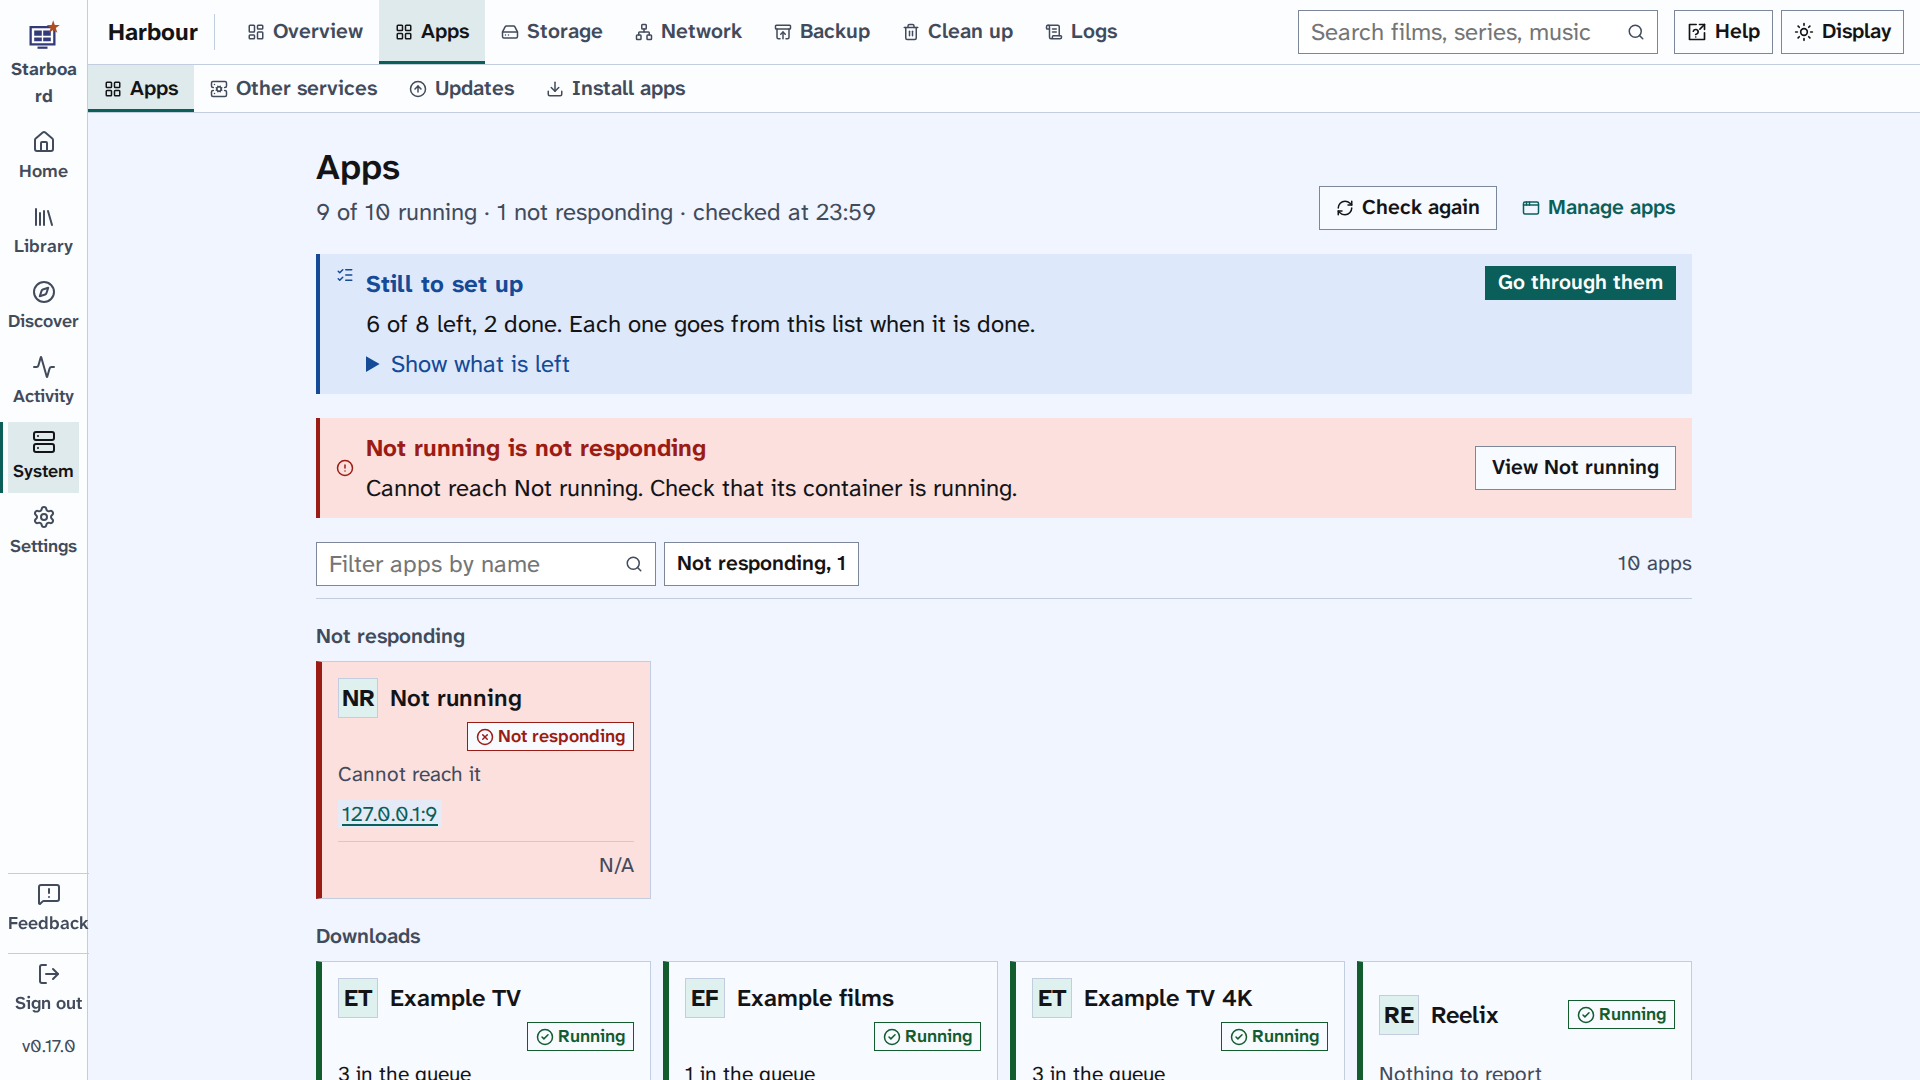
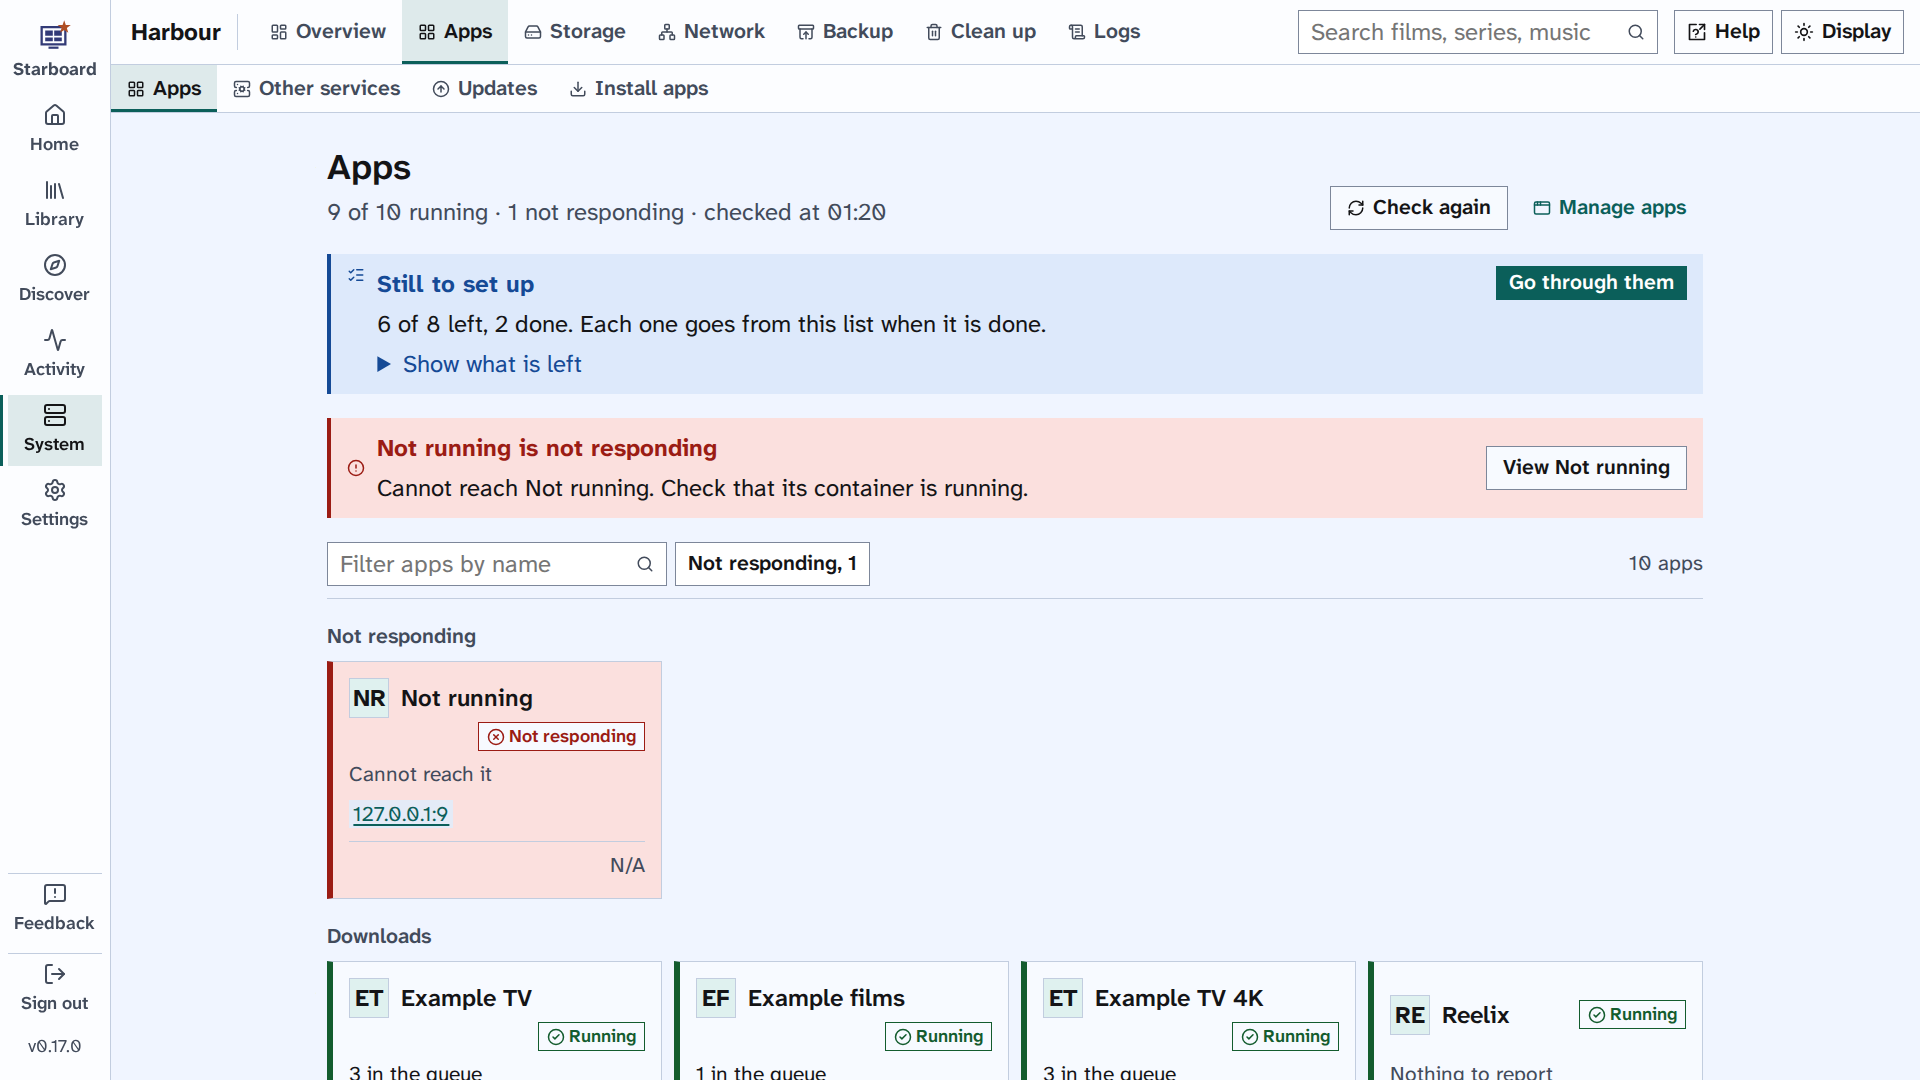
Accessibility help: the four DASH-437 issues are fixed
Taken out of Limits and known gaps, Text size and spacing, and Reduce motion, which
now says what Off does; How Starboard is tested describes the layout check and the
Reduce motion task. New pictures at 175% text, 150% on a large screen and with wider
spacing, with their descriptions.

diff --git a/docs/help/accessibility/how-starboard-is-tested.md b/docs/help/accessibility/how-starboard-is-tested.md
@@ -26,7 +26,7 @@ server with made-up data, so nothing real is read.
 
 | Part | What it checks | How it runs |
 |---|---|---|
-| The scan | Every page against WCAG 2.2 AA with axe-core, in Light, Dark and High contrast; page structure; target size; reflow at 320 pixels wide and at 175% text; Windows' contrast themes; reduced motion | `tools/a11y.sh` |
+| The scan | Every page against WCAG 2.2 AA with axe-core, in Light, Dark and High contrast; page structure; target size; reflow at 320 pixels wide and at 175% text; Windows' contrast themes; reduced motion; the side menu and header at every text size | `tools/a11y.sh` and `LAYOUT=1 tools/a11y.sh` |
 | Reading order | What a screen reader reads against what is seen, on every page, at computer and phone widths, and in each design of the Apps page | `ORDER=1 tools/a11y.sh` |
 | Keyboard walk | The main tasks with keys only, checking where focus is and what is said after every step | `TASKS=1 tools/a11y.sh` |
 | Colour contrast | Every text and control colour pair in every theme and colour palette | The design system's `tools/contrast.py` |
@@ -46,6 +46,11 @@ server with made-up data, so nothing real is read.
   **Display** after Escape.
 - **Windows' contrast themes:** the focus outline stays visible in forced colours.
 - **Reduced motion:** with reduced motion asked for, nothing on the Apps page moves for longer than 50 milliseconds.
+- **Menus at large text:** the side menu and the header on eight pages, at 100%, 125%, 150% and 175% text, with and
+  without wider spacing, in Light, Dark and High contrast, at 1280 and 1366 pixels wide and at phone width, and in
+  windows 600 and 700 pixels tall. It fails if a word breaks in the middle, a name runs past an edge, items overlap,
+  a menu item or the search box is cut off, or the page scrolls sideways. The scan's own reflow rule cannot see a
+  menu that cuts off its own items, so this part looks for exactly that.
 
 ### Reading order
 
@@ -59,8 +64,9 @@ level 1 heading is the first thing in the main content.
 The main tasks are done with keys alone, as a screen reader user would. After each step, the check records where
 focus is, and what was said. The tasks include: sign in, skip to the main content, search, open a film, change a
 setting, change an accessibility option in Settings, edit an app in a slide-out, make and revoke a key, show more of
-a list, delete a file, select several items, the Live TV channel lists, release notes, copies of backups, and a
-plug-in's notices, tables, cards, recommendations and settings.
+a list, delete a file, select several items, the Live TV channel lists, release notes, copies of backups, a
+plug-in's notices, tables, cards, recommendations and settings, and each **Reduce motion** choice against the
+device's own setting.
 
 ![The Delete the history? box over the History page, with focus on Cancel, the safe choice, so pressing Enter does not delete anything](../images/a11y-dialog-focus.png)
 
@@ -124,6 +130,12 @@ This runs the keyboard walk:
 
 ```bash
 TASKS=1 bash tools/a11y.sh
+```
+
+This checks the side menu and header at every text size:
+
+```bash
+LAYOUT=1 bash tools/a11y.sh
 ```
 
 Each one starts its own example server with made-up data, and prints one line for each finding and a summary.

diff --git a/docs/help/accessibility/limits-and-known-gaps.md b/docs/help/accessibility/limits-and-known-gaps.md
@@ -36,16 +36,6 @@ stops you, or you find something that is not listed, [report a problem](tell-us-
 - **Kept per browser, not per account:** the Display and accessibility choices are kept in the browser you use. They
   do not follow you to another phone, computer or browser, and a private window or clearing your browser's data
   forgets them.
-- **Reduce motion Off:** when your device asks for reduced motion, choosing **Off** in Starboard does not yet bring
-  back all movement: slide-outs, messages and the loading line still follow the device. **On** and **Match device**
-  work as described.
-- **Large text in the side menu and header:** at 150% and 175% text, and with wider text spacing, the name
-  Starboard in the side menu breaks in the middle of the word, and **Feedback** runs past the side menu's edge. At
-  175% on a computer, the header's menu on some pages runs out of room: on System, **Backup** shows only its icon
-  and the items after it are cut off, and the search field is very narrow. Everything is still there in the phone
-  menu, under **Menu**, when the window is narrower. These were found while making this help, and are to be fixed.
-- **Short windows:** in a window about 600 pixels tall, the items in the side menu overlap: the name Starboard sits
-  under the **Home** icon. Making the window taller, or zooming out, avoids it.
 - **The device's own text size:** Starboard follows the browser's text size, but not every phone passes its own
   text size setting to web pages. Use **Text size** in **Display** instead.
 

diff --git a/docs/help/accessibility/text-size-and-spacing.md b/docs/help/accessibility/text-size-and-spacing.md
@@ -33,7 +33,7 @@ page is laid out again to fit, so you do not need to scroll sideways. 100% is th
 
 ![The Apps page with Text size at 100%](../images/a11y-text-100.png)
 
-![The same Apps page with Text size at 175%: every word is larger and the page is laid out again, though the name Starboard in the side menu breaks in two and the header's menu is cut off after Network](../images/a11y-text-175.png)
+![The same Apps page with Text size at 175%: every word is larger, the side menu is wider so its names stay whole, and the header's menu shows its icons only, so nothing is cut off](../images/a11y-text-175.png)
 
 ## What wider text spacing changes
 
@@ -51,10 +51,10 @@ The graphic shows the line "Harbour Lights, film, 2023, in your library" at each
 than the last, then a sentence with normal spacing beside the same sentence with wider spacing, which takes three
 lines instead of two.
 
-> [!NOTE]
-> **Limitation:** at 150% and 175%, the name Starboard in the side menu breaks in the middle, and on some pages the
-> header's menu runs out of room on a computer. Read
-> [Limits and known gaps](limits-and-known-gaps.md#display-settings).
+The side menu grows wider with the text, so its names stay whole. When the header has too little room, it gives way
+in steps: its menu shows icons only, the search box becomes the **Search** button, **Help** and **Display** show
+their icons, and last, the menu moves under **Menu**. Nothing is cut off, and every name is still read out by a
+screen reader and shown as a tooltip.
 
 ## Things to note
 

diff --git a/docs/help/accessibility/reduce-motion.md b/docs/help/accessibility/reduce-motion.md
@@ -18,7 +18,7 @@ at once, and is kept in the browser you use. By default it follows your device's
 2. Under **Reduce motion**, choose one:
    - **Match device** (the default) follows the reduced motion setting of your phone or computer.
    - **On** always reduces motion in Starboard, whatever the device says.
-   - **Off** asks for the standard movement.
+   - **Off** always shows the standard movement in Starboard, whatever the device says.
 3. Select **Done**, or press Escape.
 
 ![The Display and accessibility slide-out with Reduce motion (step 2) outlined and set to On](../images/a11y-reduce-motion.png)
@@ -54,11 +54,7 @@ setting, deactivate **Load more as you scroll** in **Settings**, then **General*
 ## Things to note
 
 - Reduce motion is kept in this browser only. Each phone, computer and browser has its own.
-
-> [!NOTE]
-> **Limitation:** **Off** does not yet bring all movement back when your device asks for reduced motion: slide-outs,
-> messages and the loading line still follow the device. Read
-> [Limits and known gaps](limits-and-known-gaps.md#display-settings).
+- **Off** brings back all movement in Starboard, even when your device asks for reduced motion.
 
 ## Find out more
 

diff --git a/docs/help/accessibility/zoom-and-large-screens.md b/docs/help/accessibility/zoom-and-large-screens.md
@@ -33,7 +33,7 @@ As you zoom in, the page needs less width:
 **Text size** in **Display** makes only the text bigger, up to 175%, and keeps the layout. Every page is also
 checked at 175% for anything that needs sideways scrolling. Read [Change text size and spacing](text-size-and-spacing.md).
 
-![The same Apps page with Text size at 175%: every word is larger and the page is laid out again, though the name Starboard in the side menu breaks in two and the header's menu is cut off after Network](../images/a11y-text-175.png)
+![The same Apps page with Text size at 175%: every word is larger, the side menu is wider so its names stay whole, and the header's menu shows its icons only, so nothing is cut off](../images/a11y-text-175.png)
 
 ## Large screens and televisions
 
